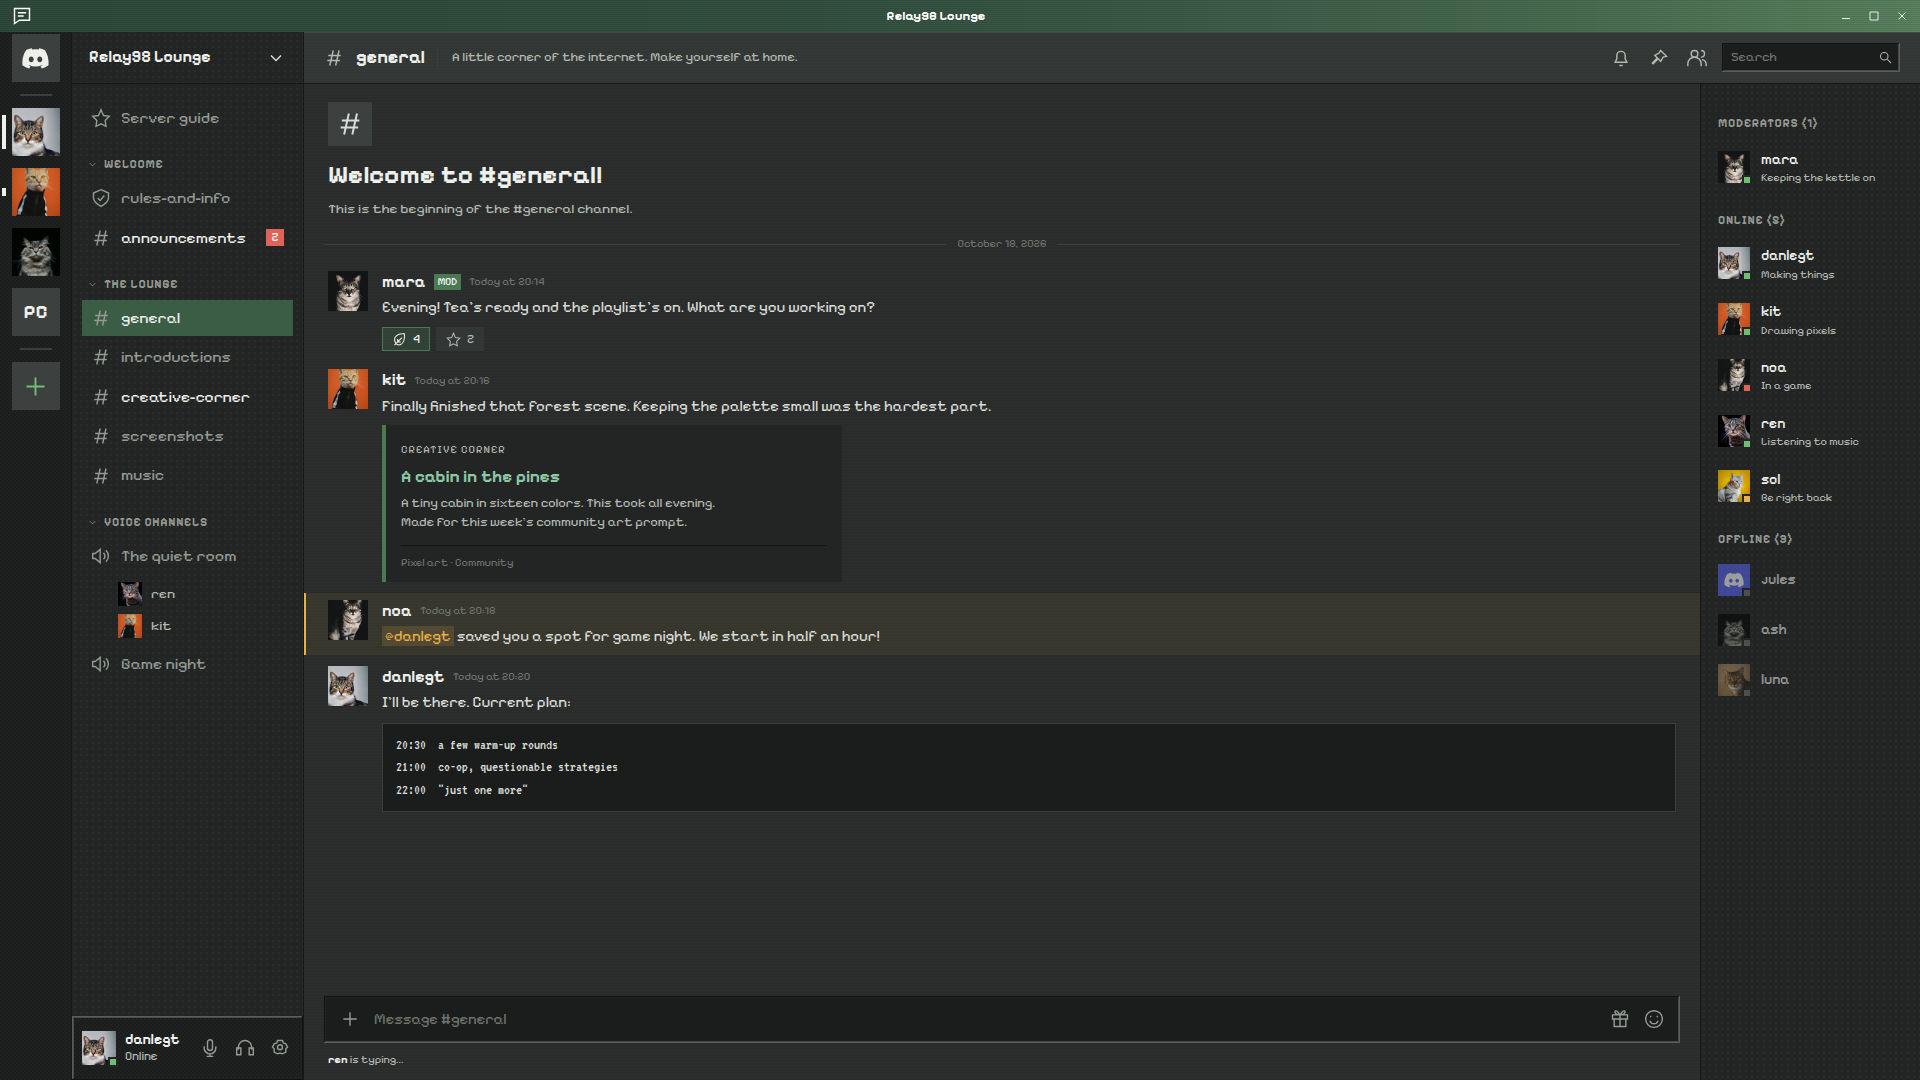
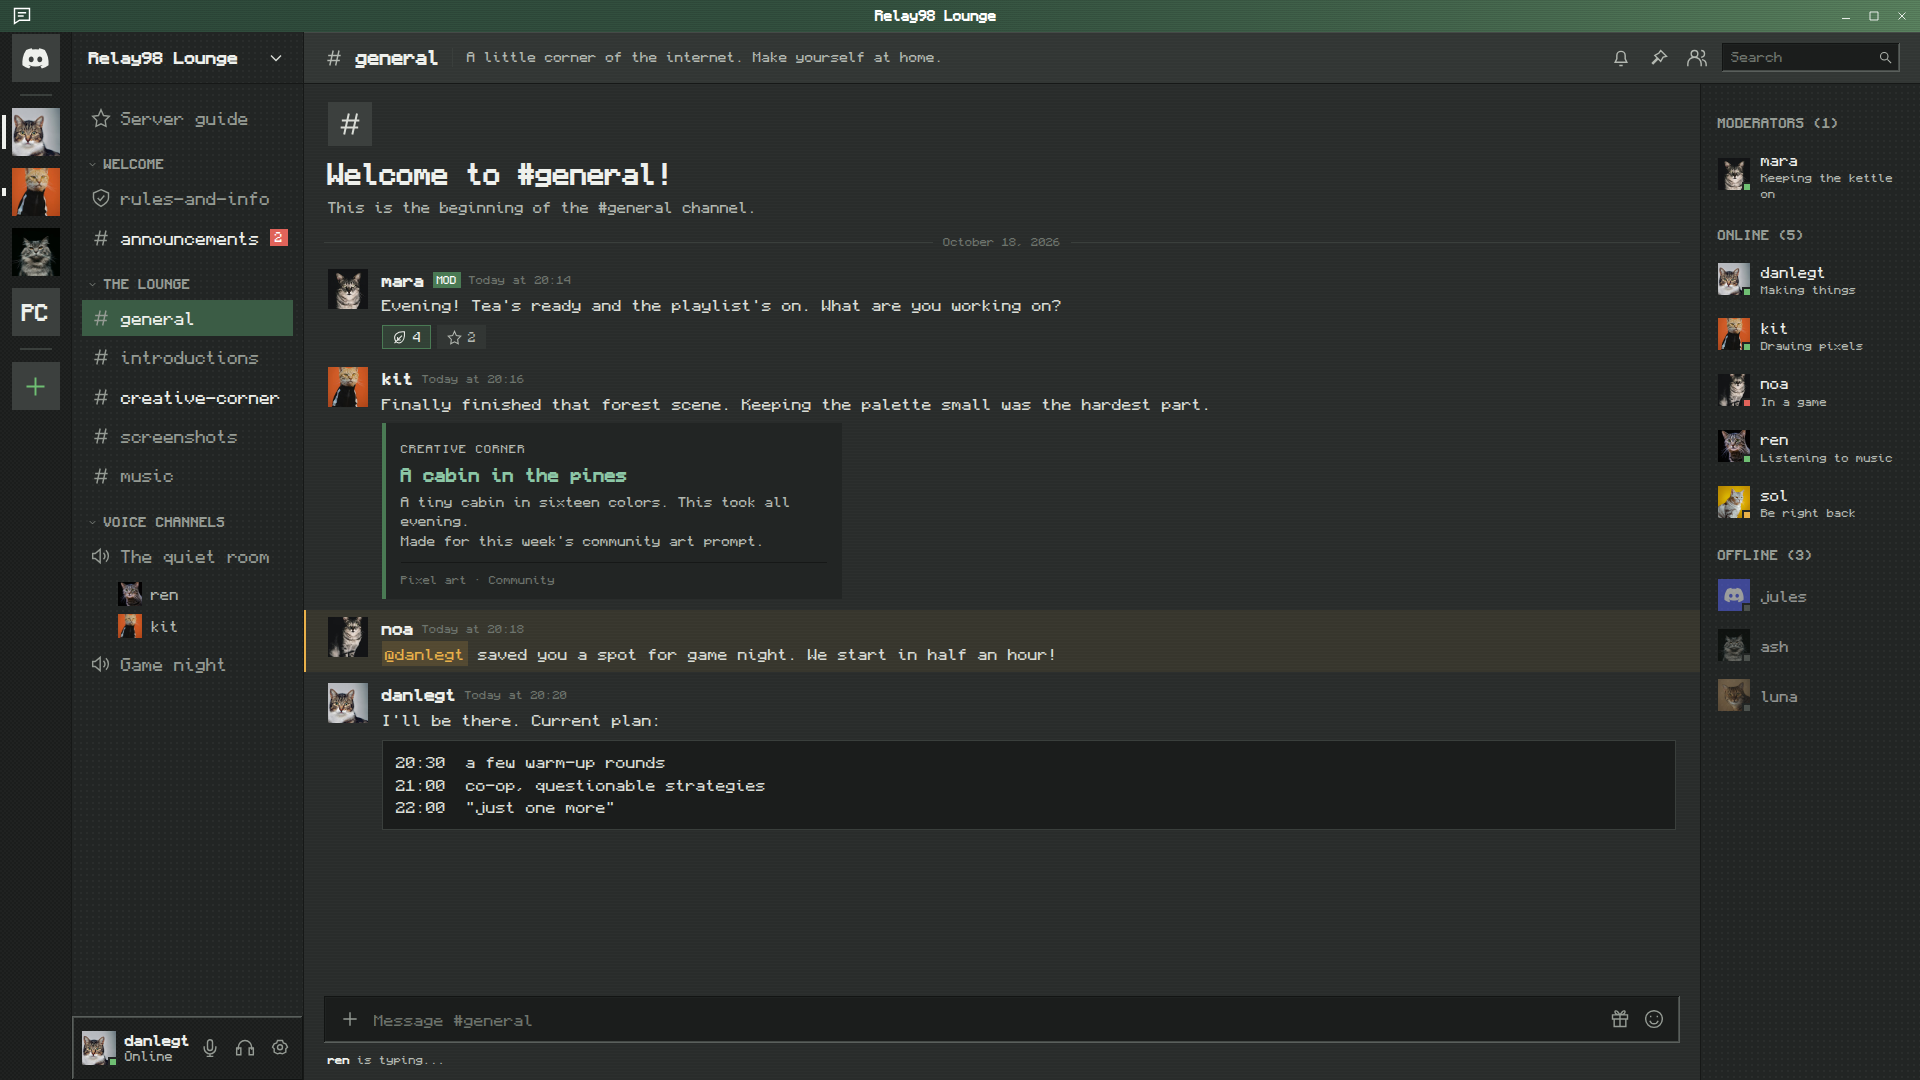
feat(theme): prefer Monocraft font

diff --git a/src/00-variables.css b/src/00-variables.css
@@ -7,10 +7,9 @@
 @import url('https://fonts.googleapis.com/css2?family=Pixelify+Sans:wght@400;500;700&family=VT323&display=swap');
 
 :root {
-    /* Use PixeloidSans and PixelOperatorMono when installed, as on danlegt.com.
-       Fall back to Google's Pixelify Sans and VT323. */
-    --r98-font: 'PixeloidSans', 'Pixelify Sans', 'Tahoma', sans-serif;
-    --r98-font-code: 'PixelOperatorMono', 'VT323', 'Courier New', monospace;
+    /* Prefer Monocraft when installed, then the other pixel fonts. */
+    --r98-font: 'Monocraft', 'PixeloidSans', 'Pixelify Sans', 'Tahoma', sans-serif;
+    --r98-font-code: 'Monocraft', 'PixelOperatorMono', 'VT323', 'Courier New', monospace;
 
     /* Charcoal surfaces, darkest to lightest.
        A slight green cast matches the pine/sage window bar. */

diff --git a/build/relay98.theme.css b/build/relay98.theme.css
@@ -18,10 +18,9 @@
 
 
 :root {
-    /* Use PixeloidSans and PixelOperatorMono when installed, as on danlegt.com.
-       Fall back to Google's Pixelify Sans and VT323. */
-    --r98-font: 'PixeloidSans', 'Pixelify Sans', 'Tahoma', sans-serif;
-    --r98-font-code: 'PixelOperatorMono', 'VT323', 'Courier New', monospace;
+    /* Prefer Monocraft when installed, then the other pixel fonts. */
+    --r98-font: 'Monocraft', 'PixeloidSans', 'Pixelify Sans', 'Tahoma', sans-serif;
+    --r98-font-code: 'Monocraft', 'PixelOperatorMono', 'VT323', 'Courier New', monospace;
 
     /* Charcoal surfaces, darkest to lightest.
        A slight green cast matches the pine/sage window bar. */

diff --git a/README.md b/README.md
@@ -55,7 +55,9 @@ To change the colors, edit the `--r98-*` variables at the top of `src/00-variabl
 
 ## Fonts
 
-Vesktop allows external resources from GitHub, GitLab, Codeberg, Imgur, Discord and Google Fonts, and blocks the rest. The theme uses `PixeloidSans` and `PixelOperatorMono` when they're installed locally. Otherwise, it uses Google's `Pixelify Sans` and `VT323`.
+The theme prefers [Monocraft](https://github.com/IdreesInc/Monocraft) for interface text and code when it's installed on your computer. Otherwise, it uses `PixeloidSans` and `PixelOperatorMono` if available, then Google's `Pixelify Sans` and `VT323`. The demos use the same font choices, with bundled copies of the Google fonts for screenshots.
+
+I recommend installing [Monocraft](https://github.com/IdreesInc/Monocraft) as it's a cool font anyway, but you can still have a more than decent experience with the google pixel-art fonts too.
 
 ## Discord updates
 
